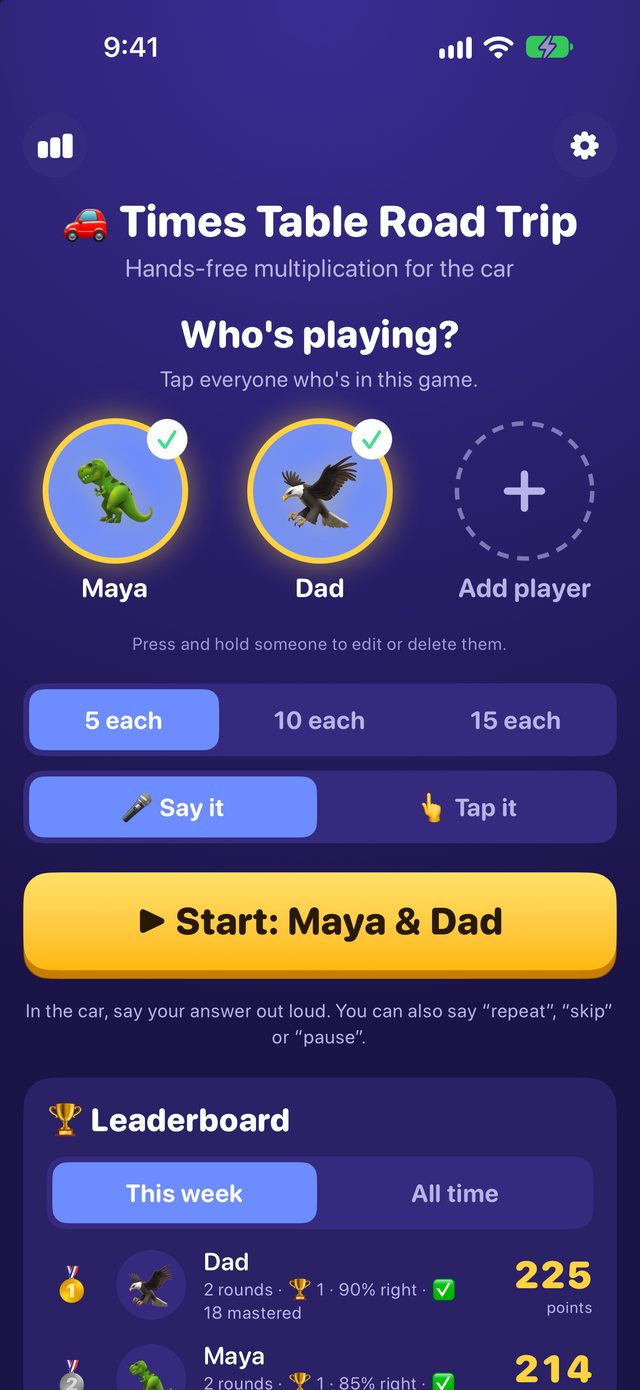
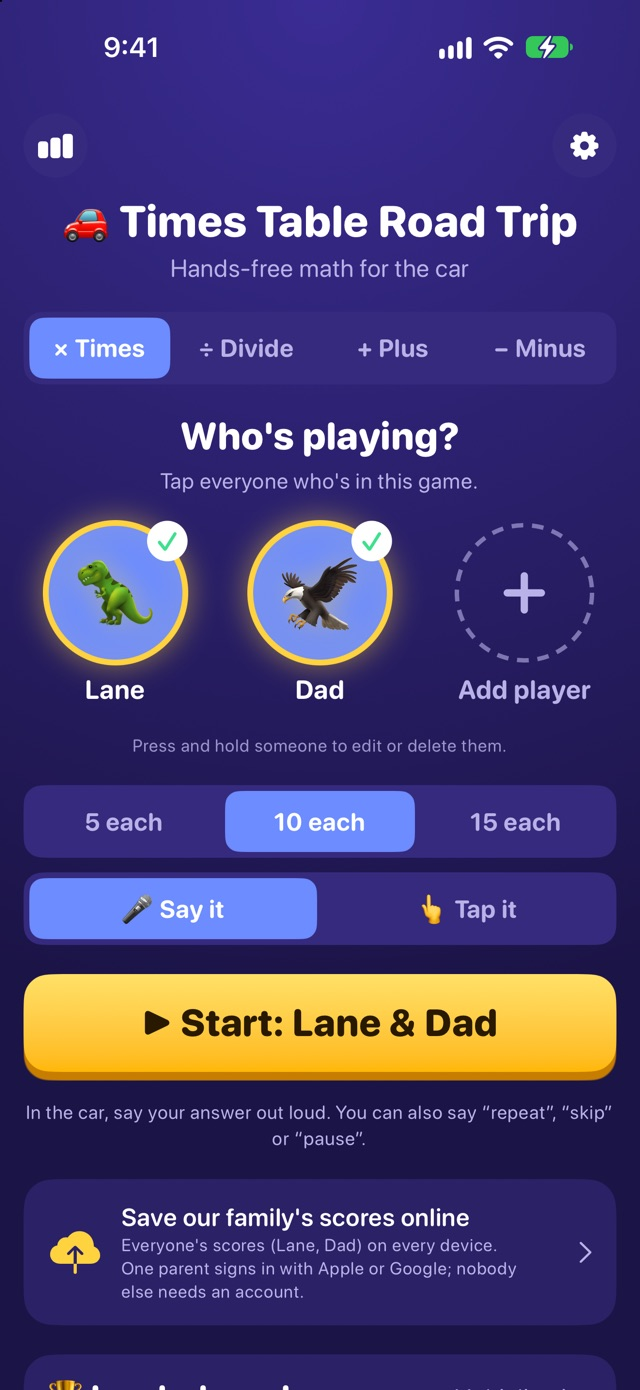
Times Table Road Trip site: Lane's name instead of the made-up 'Maya' (hero, milestone, privacy example, all five screenshots and the share image, now showing the 1.1 screens)

diff --git a/timestables/index.html b/timestables/index.html
@@ -8,7 +8,7 @@
   <link rel="canonical" href="https://travisstoliker.com/timestables/">
   <meta property="og:title" content="Times Table Road Trip">
   <meta property="og:description" content="Say-it-out-loud math facts for the whole family. Free on iPhone, iPad, Android and the web.">
-  <meta property="og:image" content="https://travisstoliker.com/timestables/img/og.jpg">
+  <meta property="og:image" content="https://travisstoliker.com/timestables/img/og.jpg?v=2">
   <meta property="og:url" content="https://travisstoliker.com/timestables/">
   <meta property="og:type" content="website">
   <meta name="twitter:card" content="summary_large_image">
@@ -48,7 +48,7 @@
 
     <header class="hero">
       <div>
-        <div class="bubble">"Maya, what's 7 times 8?"</div>
+        <div class="bubble">"Lane, what's 7 times 8?"</div>
         <h1>Times tables,<br><span class="gold">out loud,</span><br>in the car.</h1>
         <p class="lede">A free game that asks the questions, listens for the answers, and turns every drive into practice the whole family enjoys.</p>
         <div class="ctas">
@@ -58,7 +58,7 @@
         </div>
         <p class="fine">iPhone, iPad, Android &amp; web · No ads · Free</p>
       </div>
-      <div class="phone"><img src="img/iphone-game.jpg" alt="The game asking 7 × 8 with a points countdown and two players' scores" width="640" height="1385"></div>
+      <div class="phone"><img src="img/iphone-game.jpg?v=2" alt="The game asking 7 × 8 with a points countdown and two players' scores" width="640" height="1390"></div>
     </header>
   </div>
 
@@ -87,7 +87,7 @@
           <li><b>Variety built in.</b> No number keeps coming back, and no two players get the same question in a game.</li>
         </ul>
       </div>
-      <div class="phone"><img src="img/iphone-stats.jpg" alt="Who knows what: a 12 by 12 grid colored by how well each fact is known" loading="lazy" width="640" height="1385"></div>
+      <div class="phone"><img src="img/iphone-stats.jpg?v=2" alt="Who knows what: a 12 by 12 grid colored by how well each fact is known" loading="lazy" width="640" height="1390"></div>
     </div>
   </section>
 
@@ -101,7 +101,7 @@
       <div class="card">
         <div class="emoji">🏆</div>
         <h3>A family leaderboard</h3>
-        <p>See who's on top this week and all time, how many facts each person has mastered, and celebrate milestones like "Maya has mastered the 5s!"</p>
+        <p>See who's on top this week and all time, how many facts each person has mastered, and celebrate milestones like "Lane has mastered the 5s!"</p>
       </div>
     </div>
   </section>
@@ -116,7 +116,7 @@
         <div class="tip">💡 Elevens trick: 11 times 4 is just two 4s side by side, 44.</div>
         <div class="tip">💡 Remember five, six, seven, eight: 56 is 7 times 8!</div>
       </div>
-      <div class="phone"><img src="img/iphone-tip.jpg" alt="A missed answer showing the nines trick" loading="lazy" width="640" height="1385"></div>
+      <div class="phone"><img src="img/iphone-tip.jpg?v=2" alt="A missed answer showing the nines trick" loading="lazy" width="640" height="1390"></div>
     </div>
   </section>
 
@@ -125,11 +125,11 @@
       <p class="kicker">Take a look</p>
       <h2>Made for small hands and long drives.</h2>
       <div class="shots">
-        <figure><img src="img/iphone-setup.jpg" alt="Choosing who's playing" loading="lazy"><figcaption>Pick who's playing</figcaption></figure>
-        <figure><img src="img/iphone-game.jpg" alt="Answering a question" loading="lazy"><figcaption>Say the answer</figcaption></figure>
-        <figure><img src="img/iphone-tip.jpg" alt="A tip after a miss" loading="lazy"><figcaption>Learn a trick</figcaption></figure>
-        <figure><img src="img/iphone-results.jpg" alt="Round results" loading="lazy"><figcaption>See who won</figcaption></figure>
-        <figure><img src="img/iphone-stats.jpg" alt="Progress grid" loading="lazy"><figcaption>Watch facts turn green</figcaption></figure>
+        <figure><img src="img/iphone-setup.jpg?v=2" alt="Choosing who's playing" loading="lazy"><figcaption>Pick who's playing</figcaption></figure>
+        <figure><img src="img/iphone-game.jpg?v=2" alt="Answering a question" loading="lazy"><figcaption>Say the answer</figcaption></figure>
+        <figure><img src="img/iphone-tip.jpg?v=2" alt="A tip after a miss" loading="lazy"><figcaption>Learn a trick</figcaption></figure>
+        <figure><img src="img/iphone-results.jpg?v=2" alt="Round results" loading="lazy"><figcaption>See who won</figcaption></figure>
+        <figure><img src="img/iphone-stats.jpg?v=2" alt="Progress grid" loading="lazy"><figcaption>Watch facts turn green</figcaption></figure>
       </div>
     </div>
   </section>

diff --git a/timestables/privacy.html b/timestables/privacy.html
@@ -40,7 +40,7 @@
     <p>A parent can save the family's scores online with Sign in with Apple or Google, and a player can link their own account the same way, so scores follow them to another device or the website. If you do, we store, using Google Firebase:</p>
     <ul>
       <li>the account's email address (with Sign in with Apple this can be Apple's hidden relay address) and its user ID;</li>
-      <li>each player's name and the animal they picked, and a short name like "Maya S.";</li>
+      <li>each player's name and the animal they picked, and a short name like "Lane S.";</li>
       <li>their scores and learning progress.</li>
     </ul>
     <p>We use this only to run the game: to show your family's players and scores on each of your devices and, for a player with a school Google account, on that school's leaderboard (short name, animal and points, visible only to accounts from the same school). Personal and Apple accounts never appear on a shared leaderboard. Nothing is sold, shared or used for advertising. It's kept until you delete it.</p>
@@ -51,7 +51,7 @@
     <p>Signing in with Google is optional. It saves that player's progress to their account so it follows them to other computers and Chromebooks. When someone signs in, we store, using Google Firebase:</p>
     <ul>
       <li>their game progress: the facts they've practiced, how they did, and their round scores;</li>
-      <li>the short name shown in the game (first name and last initial, like "Maya S."), the animal they picked and, if they choose one, their grade.</li>
+      <li>the short name shown in the game (first name and last initial, like "Lane S."), the animal they picked and, if they choose one, their grade.</li>
     </ul>
     <p>Google tells the game the account's name and email address so it can sign them in; we use the email address only to know which school the account belongs to, and don't show it to anyone. Players with a school Google account appear on that school's leaderboard with their short name, animal, grade and points. Only people signed in with the same school's accounts can see it. Personal Gmail accounts never appear on a shared leaderboard.</p>
     <p>There are no ads, analytics or tracking on the website either, and nothing is sold or shared. To delete a signed-in player's saved progress, email <a href="mailto:privacy@agrowthfactory.com">privacy@agrowthfactory.com</a> and we'll erase it.</p>
